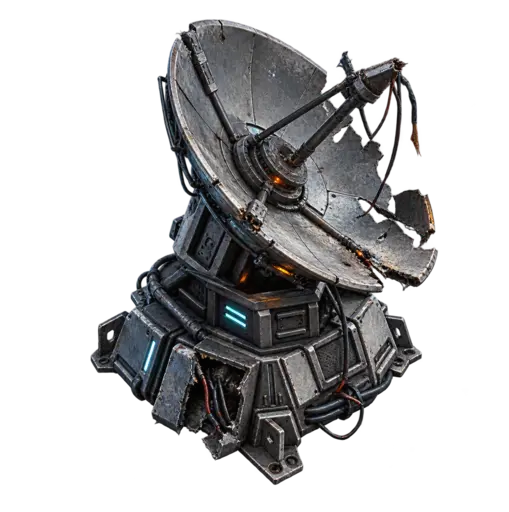
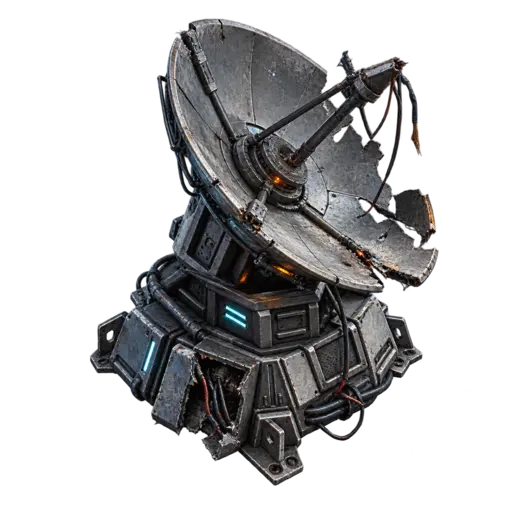
Replace legacy space debris with six premium assets in V78

diff --git a/neon-survivor/index.html b/neon-survivor/index.html
@@ -14,13 +14,13 @@
   </style>
 </head>
 <body>
-  <div id="outerVersion">V77 LIVE · WAIT</div>
-  <div id="load">LOADING V77…</div>
+  <div id="outerVersion">V78 LIVE · WAIT</div>
+  <div id="load">LOADING V78…</div>
   <iframe id="game" allow="autoplay; fullscreen" referrerpolicy="same-origin"></iframe>
   <script>
-  const VERSION='20260915v77',badge=document.getElementById('outerVersion');
+  const VERSION='20260915v78',badge=document.getElementById('outerVersion');
   let renderState='WAIT',ctrlState='WAIT',shipState='',bossState='',enemyState='',hudState='';
-  function paint(){badge.textContent='V77 LIVE · '+renderState+(shipState==='SHIPS ON'?' · SHIPS ON':shipState==='SHIP ERROR'?' · SHIP ERROR':'')+(bossState==='BOSSES ON'?' · BOSSES ON':bossState==='BOSS ERROR'?' · BOSS ERROR':'')+(enemyState==='ENEMIES ON'?' · ENEMIES ON':enemyState==='ENEMY ERROR'?' · ENEMY ERROR':'')+(hudState==='HUD ON'?' · HUD ON':'')+(ctrlState==='ON'?' · CTRL ON':ctrlState==='ERROR'?' · CTRL ERROR':'')}
+  function paint(){badge.textContent='V78 LIVE · '+renderState+(shipState==='SHIPS ON'?' · SHIPS ON':shipState==='SHIP ERROR'?' · SHIP ERROR':'')+(bossState==='BOSSES ON'?' · BOSSES ON':bossState==='BOSS ERROR'?' · BOSS ERROR':'')+(enemyState==='ENEMIES ON'?' · ENEMIES ON':enemyState==='ENEMY ERROR'?' · ENEMY ERROR':'')+(hudState==='HUD ON'?' · HUD ON':'')+(ctrlState==='ON'?' · CTRL ON':ctrlState==='ERROR'?' · CTRL ERROR':'')}
   addEventListener('message',e=>{const d=e.data;if(!d||typeof d.status!=='string')return;if(d.source==='cinematic-v48')renderState=d.status;else if(d.source==='controls-v48')ctrlState=d.status;else if(d.source==='ships-v50')shipState=d.status;else if(d.source==='bosses-v51')bossState=d.status;else if(d.source==='enemies-v52')enemyState=d.status;else if(d.source==='hud-polish-v61')hudState=d.status;paint()});
   (async()=>{
     const load=document.getElementById('load'),frame=document.getElementById('game');
@@ -29,14 +29,14 @@
       const parts=[];for(let i=0;i<7;i++)parts.push(await get('v2part'+i+'.txt'));
       const legacy=['shop-v3a.txt','shop-v3b.txt','combat-v4.txt','progress-v5.txt','fix-v6.txt','garage-v7.txt','garage-v7b.txt','compact-v8.txt','enemy-flow-v10.txt','weapon-evolution-v11.txt','visual-v12.txt','visual-polish-v13.txt','final-polish-v15.txt'];
       const bridge=await get('bridge-v42.txt'),legacyTxt=[];for(const f of legacy)legacyTxt.push(await get(f));
-      const gameplay=await get('gameplay-v32.txt'),art=await get('cinematic-v48-clean.txt'),gift=await get('gifts-v55.txt'),ships=await get('ships-v50.txt'),bosses=await get('bosses-v51.txt'),enemies=await get('enemies-v52.txt'),asteroids=await get('asteroids-v59.txt'),stageFlow=await get('stage-flow-v53.txt'),waveDirector=await get('wave-director-v77.txt'),hudPolish=await get('hud-polish-v61.txt'),debris=await get('debris-v62.txt'),arsenal=await get('arsenal-v63.txt'),odyssey=await get('weapon-odyssey-v73.txt'),special=await get('special-stage-v77.txt'),ending=await get('gameover-v76.txt');
+      const gameplay=await get('gameplay-v32.txt'),art=await get('cinematic-v48-clean.txt'),gift=await get('gifts-v55.txt'),ships=await get('ships-v50.txt'),bosses=await get('bosses-v51.txt'),enemies=await get('enemies-v52.txt'),asteroids=await get('asteroids-v59.txt'),stageFlow=await get('stage-flow-v53.txt'),waveDirector=await get('wave-director-v77.txt'),hudPolish=await get('hud-polish-v61.txt'),debris=await get('debris-v78.txt'),arsenal=await get('arsenal-v63.txt'),odyssey=await get('weapon-odyssey-v73.txt'),special=await get('special-stage-v77.txt'),ending=await get('gameover-v76.txt');
       let html=parts.join(''),k=html.lastIndexOf('})();');if(k<0)throw new Error('game closure not found');
-      const deferred='\nsetTimeout(()=>{\ntry{\n'+gameplay+'\n}catch(e){console.error("GAMEPLAY V32 DEFERRED FAILED",e)}\ntry{\n'+art+'\n'+gift+'\n'+ships+'\n'+bosses+'\n'+enemies+'\n'+asteroids+'\n'+stageFlow+'\n'+waveDirector+'\n'+hudPolish+'\n'+debris+'\n'+arsenal+'\n'+odyssey+'\n'+special+'\n'+ending+'\n}catch(e){console.error("CINEMATIC V77 FAILED",e);try{parent.postMessage({source:"arsenal-v63",status:"ARSENAL ERROR"},"*")}catch(_){}}\n},0);\n';
+      const deferred='\nsetTimeout(()=>{\ntry{\n'+gameplay+'\n}catch(e){console.error("GAMEPLAY V32 DEFERRED FAILED",e)}\ntry{\n'+art+'\n'+gift+'\n'+ships+'\n'+bosses+'\n'+enemies+'\n'+asteroids+'\n'+stageFlow+'\n'+waveDirector+'\n'+hudPolish+'\n'+debris+'\n'+arsenal+'\n'+odyssey+'\n'+special+'\n'+ending+'\n}catch(e){console.error("CINEMATIC V78 FAILED",e);try{parent.postMessage({source:"arsenal-v63",status:"ARSENAL ERROR"},"*")}catch(_){}}\n},0);\n';
       const compat='\nconst bridgeEnemy65=drawEnemy;\nfunction drawBoss(e){bridgeEnemy65(e)}\nfunction enemyLaser(b){if(!b)return;X.save();X.globalCompositeOperation="lighter";X.fillStyle="#ff7288";X.shadowBlur=12;X.shadowColor="#ff526c";X.beginPath();X.arc(b.x,b.y,Math.max(2,b.r||3),0,Math.PI*2);X.fill();X.restore()}\n';
       html=html.slice(0,k)+compat+bridge+'\n'+deferred+'\n'+legacyTxt.join('')+'\n'+html.slice(k);
       frame.addEventListener('load',()=>{load.style.display='none';frame.style.visibility='visible';setTimeout(()=>{badge.classList.add('ready');setTimeout(()=>badge.style.display='none',300)},650);try{frame.contentWindow.dispatchEvent(new Event('resize'))}catch(_){}},{once:true});
       frame.srcdoc=html;
-    }catch(e){badge.textContent='V77 LIVE · LOAD ERROR';load.innerHTML='LOAD ERROR<br><small style="display:block;margin-top:12px;letter-spacing:.05em;color:#fff">Tap refresh and try again</small>';console.error(e)}
+    }catch(e){badge.textContent='V78 LIVE · LOAD ERROR';load.innerHTML='LOAD ERROR<br><small style="display:block;margin-top:12px;letter-spacing:.05em;color:#fff">Tap refresh and try again</small>';console.error(e)}
   })();
   </script>
 </body>
